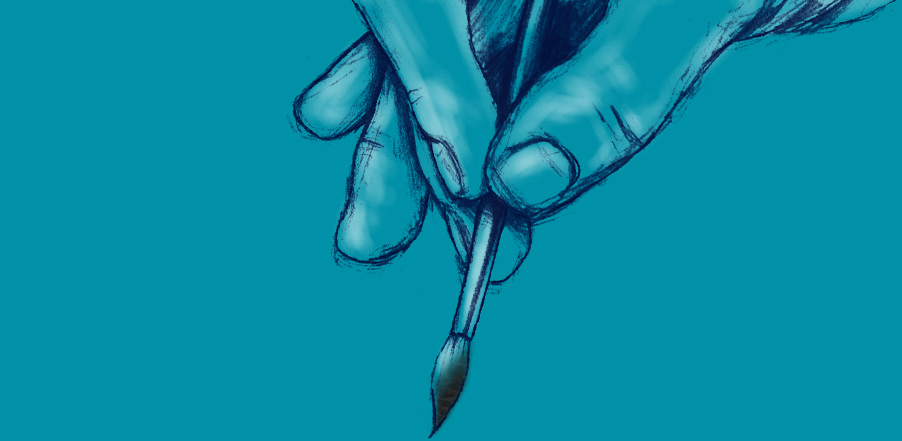
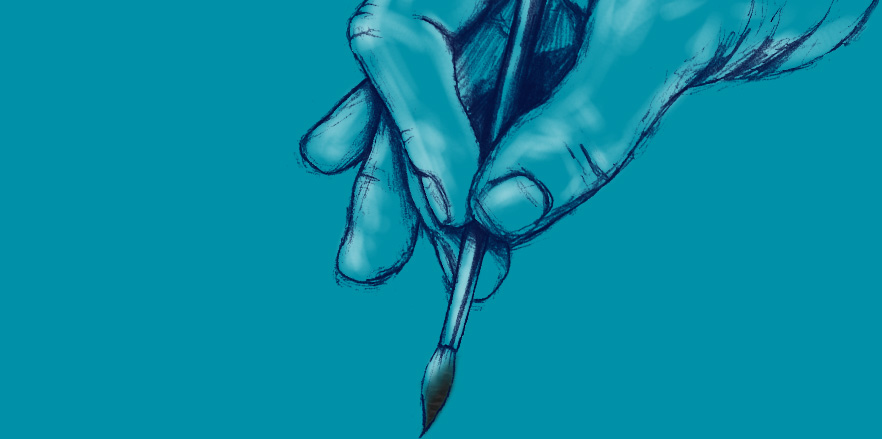
newHand

Changed region(s): [[0.3061, 0.0, 1.0, 0.9476], [0.4592, 0.9772, 0.4898, 1.0]]

diff --git a/style.css b/style.css
@@ -205,18 +205,33 @@ img.auto{
 
 /* presentation */
 #presentation{
-	background: #0091a7 url('img/profile-hand.jpg') center 0 no-repeat;
+	background-color: #0091a7;
 	height:1000px;
 	overflow: hidden;
-	text-align: center;
+	text-align: center;	
 }
+
+#presentation-hand{
+	display: block;
+	position: absolute;z-index: 101;
+	left: 50%;
+	top: -440px;
+	margin-left: -441px;
+	opacity: 0;
+	-webkit-transition: top .6s ease-out 1s, opacity 1s 1s;
+	-moz-transition: top .6s ease-out 1s, opacity 1s 1s;
+	transition: top .6s ease-out 1s, opacity 1s 1s;
+}
+
+
 #presentation-text{
-	position: absolute;z-index: 11;
+	background-color: #0091a7;
+	position: absolute;z-index: 102;
 	top:50%;left: 0;right: 0;
 	margin-top: -115px;
 	color: #FFF;
-	background-color: #0091a7;
-	box-shadow: 0 0 6px 12px #0091a7;
+	
+	box-shadow: 0 0 7px 10px #0091a7;
 }
 
 .presentation-brand{
@@ -227,7 +242,7 @@ img.auto{
 }
 
 .presentation-brand-title{
-	font-size: 70px;line-height: 70px;margin-bottom: 30px
+	font-size: 70px;line-height: 100px;
 }
 .presentation-brand-subtitle{
 	font-size: 21px;line-height: 21px;
@@ -242,18 +257,9 @@ img.auto{
 }
 
 
-
-
-
-
-
-
-
-
-
 #presentation-triang{
 	display: block;
-	position: absolute;z-index: 10;
+	position: absolute;z-index: 100;
 	left: 50%;
 	bottom: 0;
 	margin-left: -137px;

diff --git a/js/app.js b/js/app.js
@@ -7,7 +7,6 @@ PANDORA.open(function($) {
 		pageId = $pageData.attr('data-page'),
 		resizeSection = function($sec, marginBottom, callback) {
 			var mBottom = marginBottom || 0,
-
 				h = PANDORA.$window.height();
 			$sec.height(h - mBottom);
 			if (typeof callback !== 'undefined') {
@@ -18,20 +17,22 @@ PANDORA.open(function($) {
 
 		HOMEPAGE = function() {
 			var $presentation = $('#presentation'),
+				$presentationHand = $('#presentation-hand'),
 				resizeHomeSections = function() {
 					resizeSection($presentation, 20, function(h) {
 
-						var posBg = h / 2 - 570;
+						var top = h / 2 - 570;
 
-						posBg = (posBg > 0) ? 0 : posBg;
+						top = (top > 0) ? 0 : top;
 
-						$presentation.css('background-position', 'center ' + posBg + 'px');
-
+						$presentationHand.css('top', top + 'px');
+						
 
 
 					});
 				};
 
+			$presentationHand.css('opacity', '1');
 			resizeHomeSections();
 			PANDORA.ASYNC.resize(resizeHomeSections);
 		},

diff --git a/index.php b/index.php
@@ -6,6 +6,7 @@ if (!$async){
 <article class="article-main">
 	<div class="invisible" id="page-data" data-menu="" data-page="home"></div>
 	<section id="presentation">
+		<img id="presentation-hand" src="<?php bloginfo('template_url'); ?>/img/profile-hand.jpg">
 		<div id="presentation-text">
 			<div class="presentation-brand">
 				<div class="presentation-brand-title">Pablo Cazorla</div>
@@ -17,10 +18,6 @@ if (!$async){
 		</div>
 		<img id="presentation-triang" src="<?php bloginfo('template_url'); ?>/img/profile-hand-triang.png">
 	</section>
-	
-	
-
-
 	<section id="what-i-do">
 		<div class="wrap-min">
 			<h2>What I do</h2>
